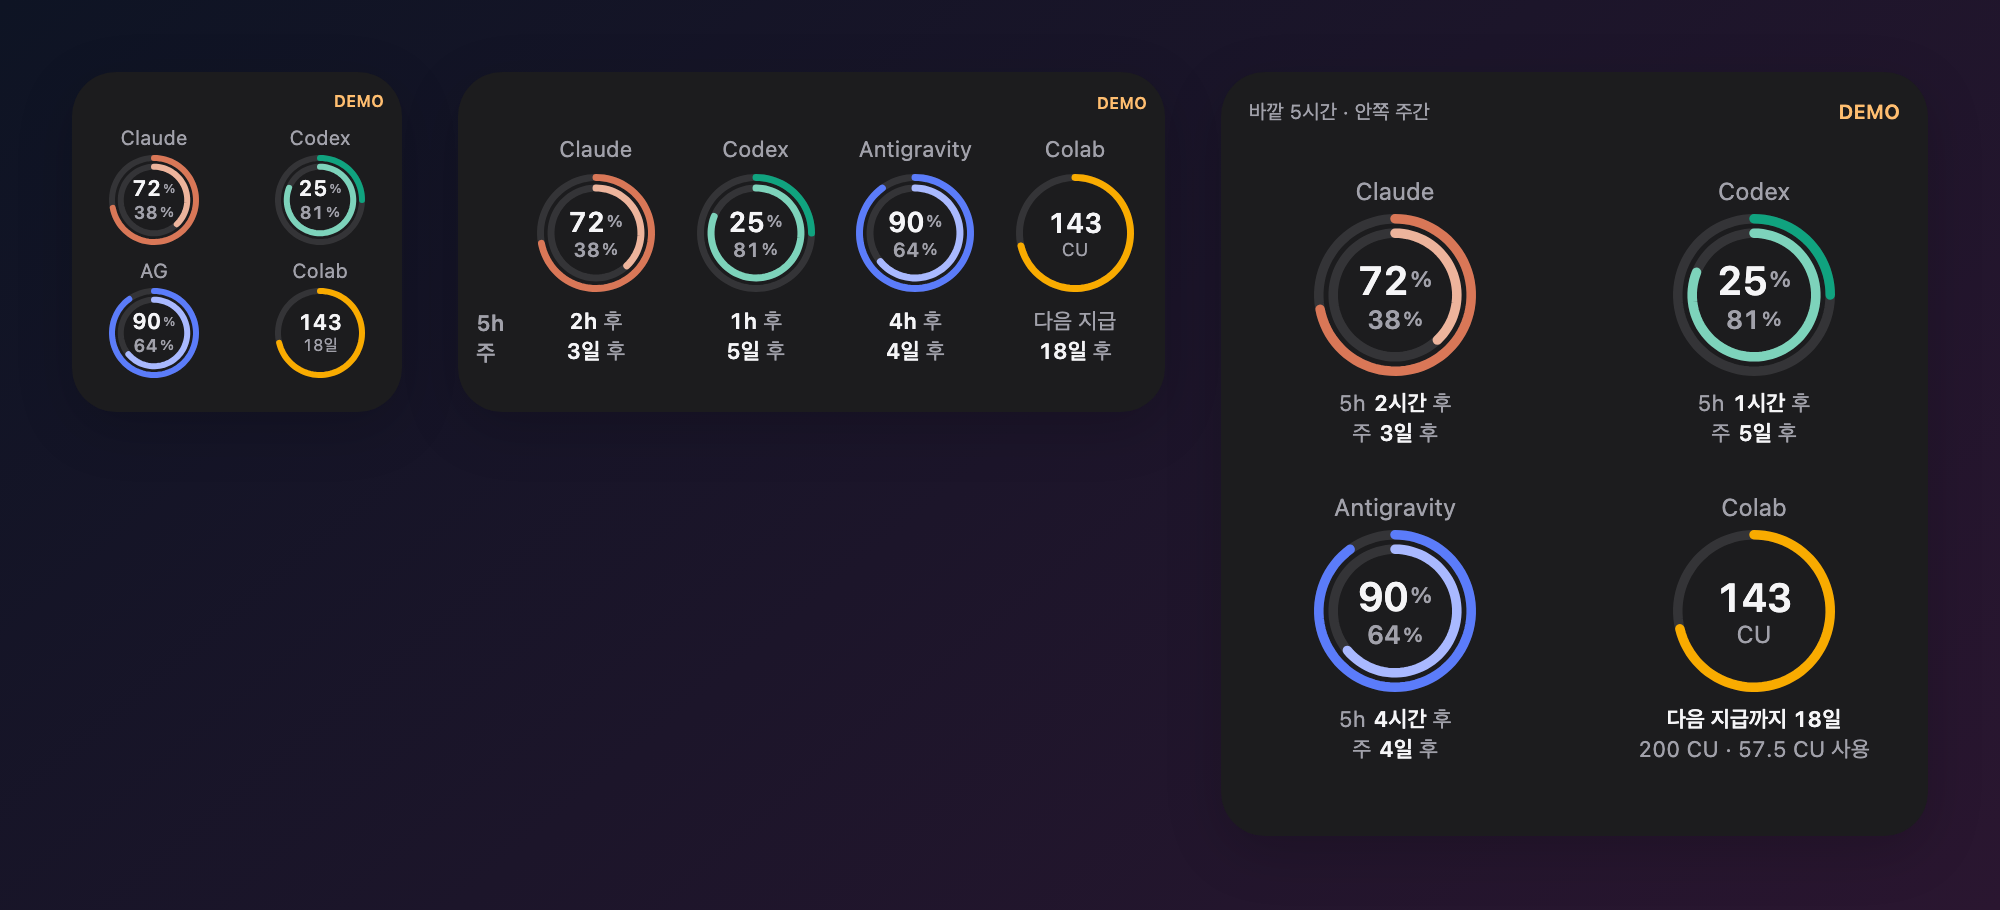
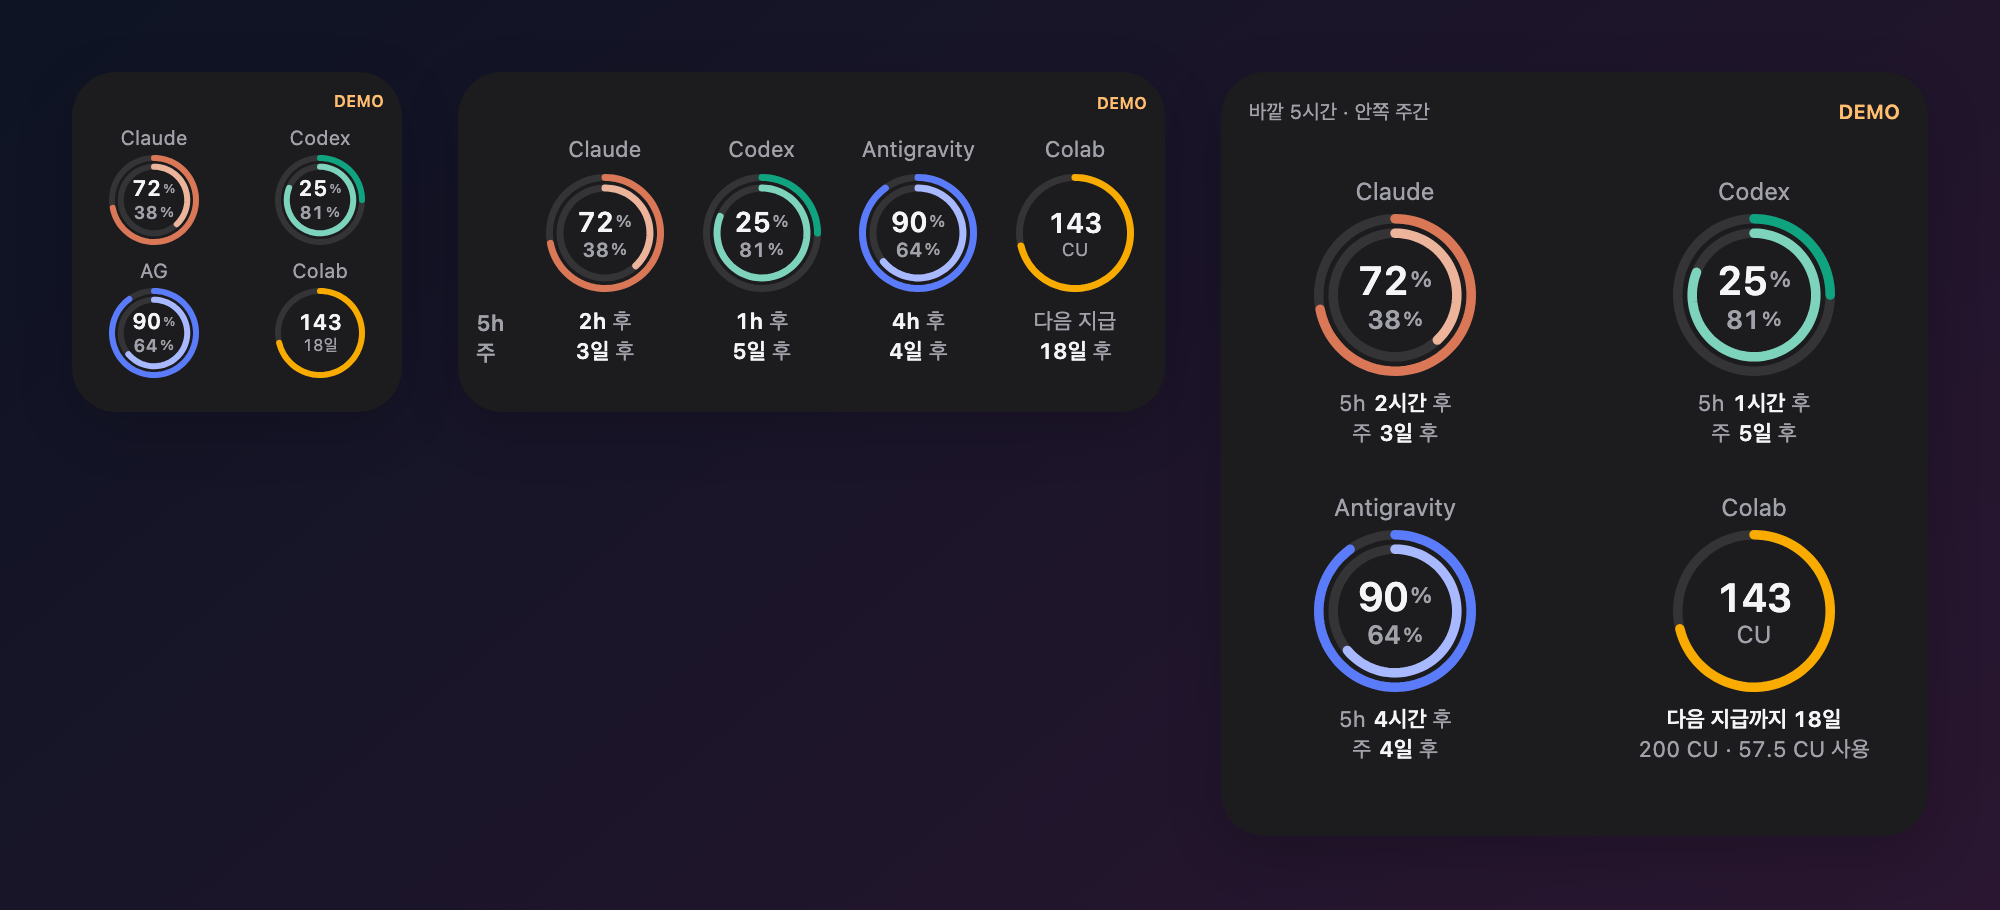
Fix ring layout on devices; read the iCloud copy even when its download fails
- Scriptable stretches a row across its parent and starts it at the
  leading edge, so ring numbers were left-aligned; centre them with
  spacers, and teach the preview the same rule so it reproduces this
- Widen the 5h/week label column ("5h" was truncated)
- A failed iCloud download falls back to the local copy; when reading
  still fails, the reason is logged when the script runs in Scriptable

Changed region(s): [[0.248, 0.1538, 0.496, 0.4], [0.341, 0.3385, 0.403, 0.4], [0.434, 0.3385, 0.465, 0.4]]

diff --git a/Scriptable/AI Usage.js b/Scriptable/AI Usage.js
@@ -164,7 +164,8 @@ async function loadSnapshot(useDemo) {
     let path = cloud.joinPath(cloud.documentsDirectory(), SNAPSHOT_FILE);
     if (!cloud.fileExists(path)) path = cloud.joinPath(cloud.documentsDirectory(), "ai-usage-snapshot.json");
     if (!cloud.fileExists(path)) return { snapshot, status: "waitingForMac" };
-    await cloud.downloadFileFromiCloud(path);
+    // A failed download is not fatal: an already-downloaded copy can still be read and validated.
+    try { await cloud.downloadFileFromiCloud(path); } catch (_) { /* fall through to the local copy */ }
     const kb = cloud.fileSize(path);
     if (typeof kb !== "number" || kb > MAX_KB) throw new Error("Size");
     const next = normalizeSnapshot(JSON.parse(cloud.readString(path)));
@@ -175,8 +176,9 @@ async function loadSnapshot(useDemo) {
     snapshot = next;
     local.writeString(cache, JSON.stringify(next));
     return { snapshot, status: "live" };
-  } catch (_) {
-    return { snapshot, status: "syncFailed" };
+  } catch (error) {
+    // The reason is shown only when the script is run inside Scriptable (never in the widget).
+    return { snapshot, status: "syncFailed", reason: String(error && error.message || error).slice(0, 200) };
   }
 }
 
@@ -713,15 +715,19 @@ function buildRingWidget(snapshot, status, family, now, grantDay) {
     }
     s.backgroundImage = drawRings(size, rings);
     s.addSpacer();
-    const t1 = row(s); t1.bottomAlignContent();
+    // On a device a row stretches across the ring and starts at its leading edge, so the
+    // numbers are centred with a flexible spacer on each side.
+    const t1 = row(s); t1.bottomAlignContent(); t1.addSpacer();
     text(t1, top == null ? "—" : String(typeof top === "number" ? Math.round(top) : top), main, theme.text, "number", 0.6);
     if (top != null && unit) { t1.addSpacer(1); text(t1, unit, Math.round(main * 0.55), theme.secondary, "number"); }
+    t1.addSpacer();
     if (bottom != null) {
-      const t2 = row(s); t2.bottomAlignContent();
+      const t2 = row(s); t2.bottomAlignContent(); t2.addSpacer();
       if (typeof bottom === "number") {
         text(t2, String(Math.round(bottom)), sub, theme.secondary, "number");
         t2.addSpacer(1); text(t2, "%", Math.round(sub * 0.75), theme.secondary, "number");
       } else text(t2, bottom, sub - 1, theme.secondary, "regular", 0.6);
+      t2.addSpacer();
     }
     s.addSpacer();
   };
@@ -784,10 +790,10 @@ function buildRingWidget(snapshot, status, family, now, grantDay) {
   const colW = 72, colH = 14 + 5 + size + 7 + lineH * 2;
   w.addSpacer();
   const main = row(w);
-  const side = box(main, 16, colH); side.addSpacer();
+  const side = box(main, 22, colH); side.addSpacer();
   const hasFiveHour = ["claude", "codex", "antigravity"].some(id => record(id).fiveHour != null);
   for (const label of [hasFiveHour ? t("fiveShort") : "", t("weekShort")]) {
-    const l = row(side); l.size = new Size(16, lineH); text(l, label, font, theme.secondary, "semibold"); l.addSpacer();
+    const l = row(side); l.size = new Size(22, lineH); text(l, label, font, theme.secondary, "semibold", 0.5); l.addSpacer();
   }
   ids.forEach(id => {
     main.addSpacer();
@@ -815,6 +821,7 @@ const settings = options.demo ? {} : await loadSettings();
 const grantDay = options.grantDay || settings.colabGrantDay || null;
 const style = options.style || settings.style || "rings";
 const widget = buildWidget(result.snapshot, result.status, family, Date.now() / 1000, args.widgetParameter, grantDay, style);
+if (!config.runsInWidget && result.reason) console.log(`Couldn’t read ${SNAPSHOT_FILE}: ${result.reason}`);
 Script.setWidget(widget);
 if (!config.runsInWidget) await widget.presentMedium();
 Script.complete();

diff --git a/Mac/WidgetPreview.html b/Mac/WidgetPreview.html
@@ -73,8 +73,11 @@ function previewMarkup(node, appearance, parentDirection = 'column') {
   }
   const styles = [`display:flex;flex-direction:${node.direction}`, `align-items:${node.center ? 'center' : node.bottom ? 'baseline' : 'stretch'}`, 'flex-shrink:0'];
   if (node.padding) styles.push(`padding:${node.padding.map(v => v + 'px').join(' ')}`);
+  // Like Scriptable on a device: a stack without a fixed width fills its parent — across a row,
+  // and the full width of a column — and its own content starts at the leading edge.
   if (node.size?.width > 0) styles.push(`width:${node.size.width}px`);
   else if (parentDirection === 'row') styles.push('flex:1;min-width:0');
+  else styles.push('align-self:stretch');
   if (node.size?.height > 0) styles.push(`height:${node.size.height}px`);
   if (node.backgroundColor) styles.push('background:' + color(node.backgroundColor));
   if (node.cornerRadius) styles.push('border-radius:' + node.cornerRadius + 'px');
